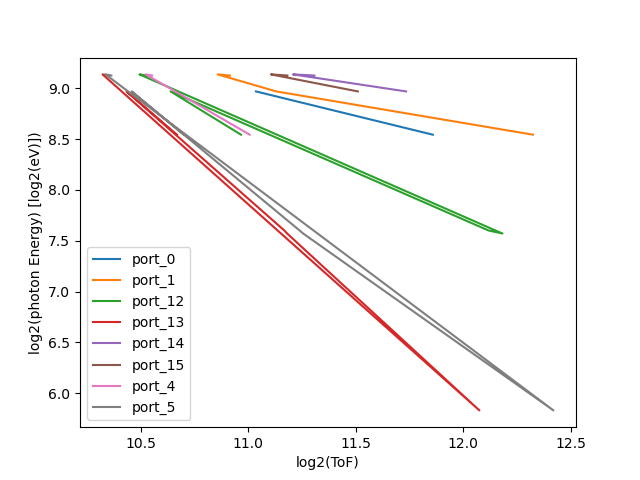
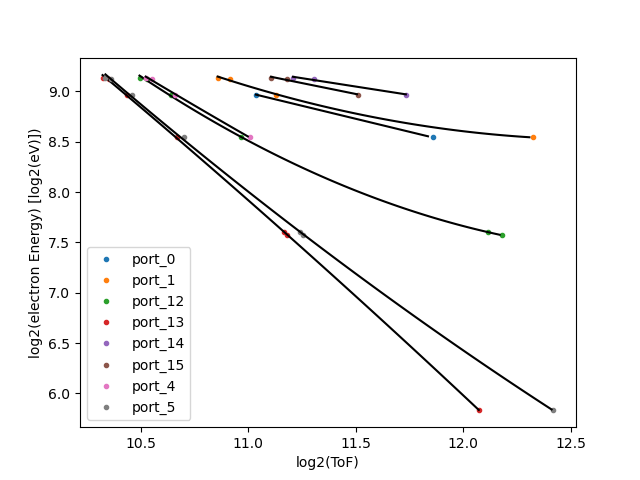
fitting multiret calib

diff --git a/src/plotting.multiretardation.py b/src/plotting.multiretardation.py
@@ -5,6 +5,7 @@ import numpy as np
 import h5py
 import re
 import matplotlib.pyplot as plt
+from utils import fitpoly,fitval
 
 def main(fname):
     data = {}
@@ -44,35 +45,49 @@ def main(fname):
     calib = {}
     xvals = {}
     yvals = {}
+    x0 = {}
+    theta = {}
     for k in portkeys:
         calib.update({k:[]})
-        if valenceO[k] != '-':
-            calib[k] += [600.-41.6,valenceO[k]]
         if valenceN[k] != '-':
             calib[k] += [600.-37.3,valenceN[k]]
-        if photosO[k] != '-':
-            calib[k] += [600.-543.1,photosO[k]]
-        if photosN1[k] != '-':
-            calib[k] += [600.-409.9,photosN1[k]]
-        if photosN2[k] != '-':
-            calib[k] += [600.-405.9,photosN2[k]]
+        if valenceO[k] != '-':
+            calib[k] += [600.-41.6,valenceO[k]]
         if augersO[k] != '-':
             calib[k] += [501.,augersO[k]]
         if augersN[k] != '-':
             calib[k] += [373.,augersN[k]]
-        print(calib[k])
+        if photosN2[k] != '-':
+            calib[k] += [600.-405.9,photosN2[k]]
+        if photosN1[k] != '-':
+            calib[k] += [600.-409.9,photosN1[k]]
+        if photosO[k] != '-':
+            calib[k] += [600.-543.1,photosO[k]]
+        #print(calib[k])
         xvals.update({k:np.log2(calib[k][1::2])})
         yvals.update({k:np.log2(calib[k][0::2])})
-        print(xvals[k],yvals[k])
-        plt.plot(xvals[k],yvals[k],'-',label='%s'%(k))
+        #print(xvals[k],yvals[k])
+        xnaught=0
+        th=[]
+        if len(xvals[k])>3:
+            xnaught,th = fitpoly(xvals[k],yvals[k],order=2)
+        elif len(xvals[k])>1:
+            xnaught,th = fitpoly(xvals[k],yvals[k],order=1)
+            '''
+            x0 = np.mean(xvals[k])
+            theta = [ (yvals[k][-1]-yvals[k][0])/(xvals[k][-1]-xvals[k][0]) ]
+            '''
+        x0.update({k:xnaught})
+        theta.update({k:th})
+        plt.plot(xvals[k],yvals[k],'.',label='%s'%(k))
+        fitx = np.arange(np.min(xvals[k]),np.max(xvals[k]),.025)
+        fity = [fitval(x-x0[k],theta[k]) for x in fitx]
+        plt.plot(fitx,fity,'-',color='k')#,label=fitstring%fitvals)
     plt.legend()
     plt.xlabel('log2(ToF)')
-    plt.ylabel('log2(photon Energy) [log2(eV)])')
+    plt.ylabel('log2(electron Energy) [log2(eV)])')
     plt.savefig('./figures/multiretardationNNO_calibpoints.png')
     plt.show()
-
-
-
 
     print(gmdwin)
     return
